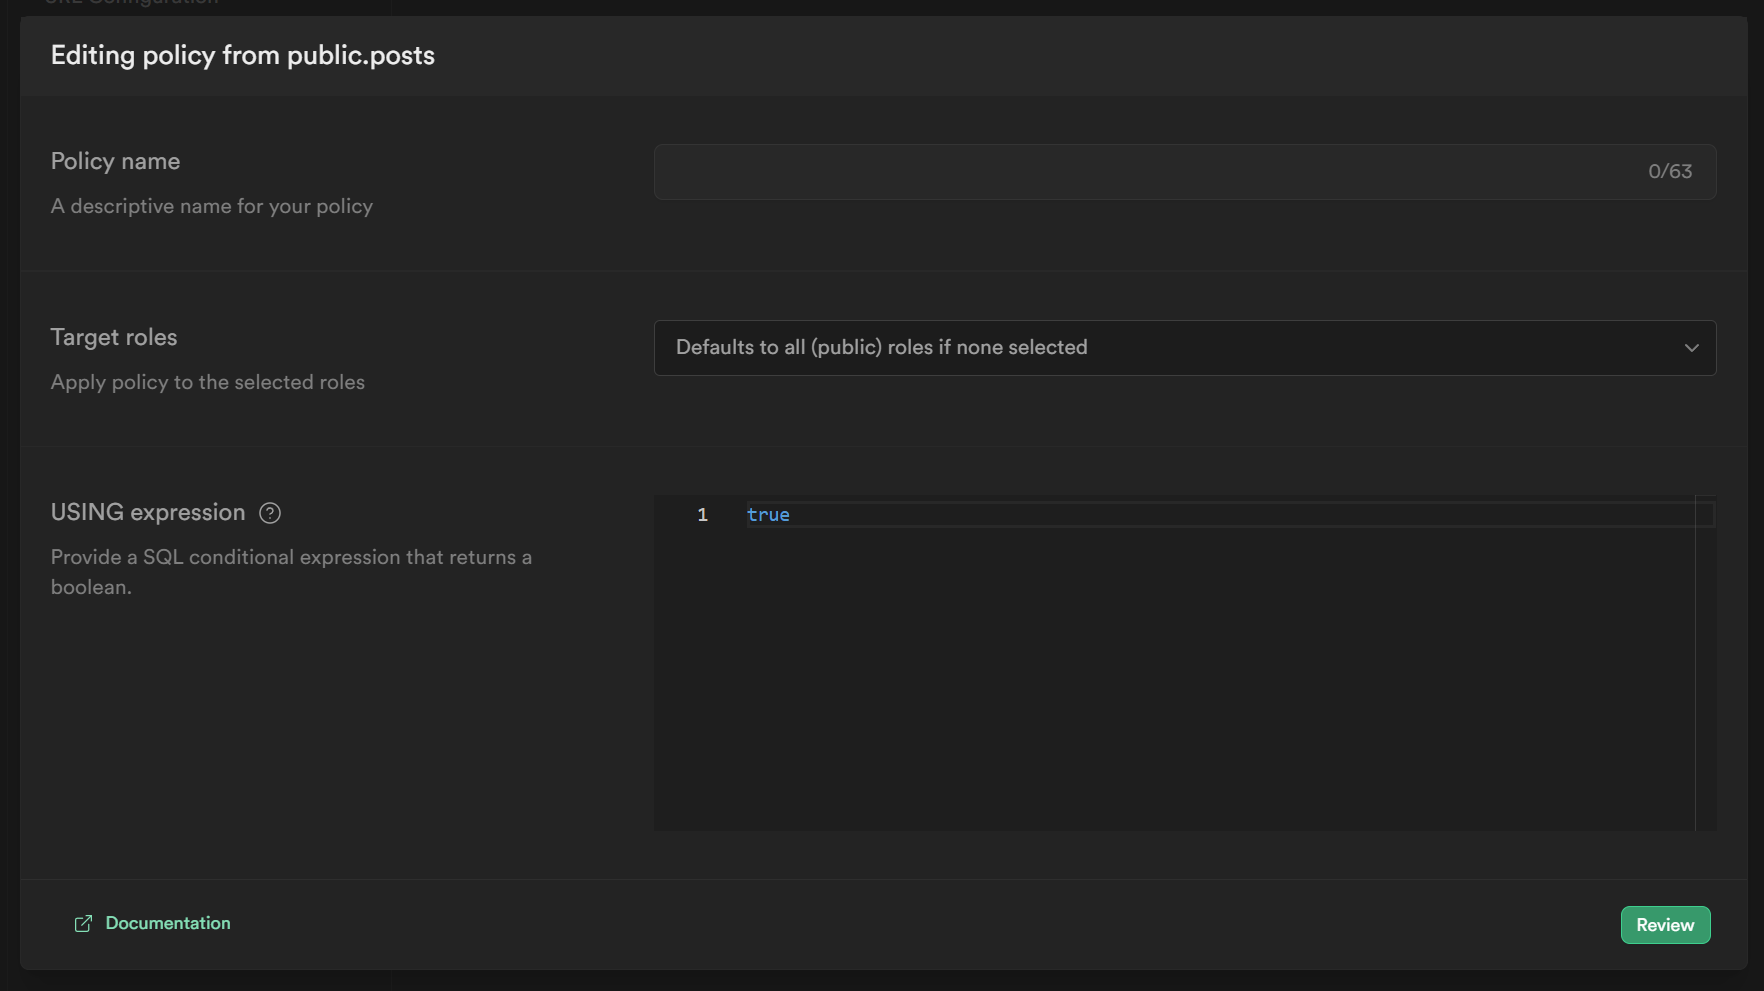
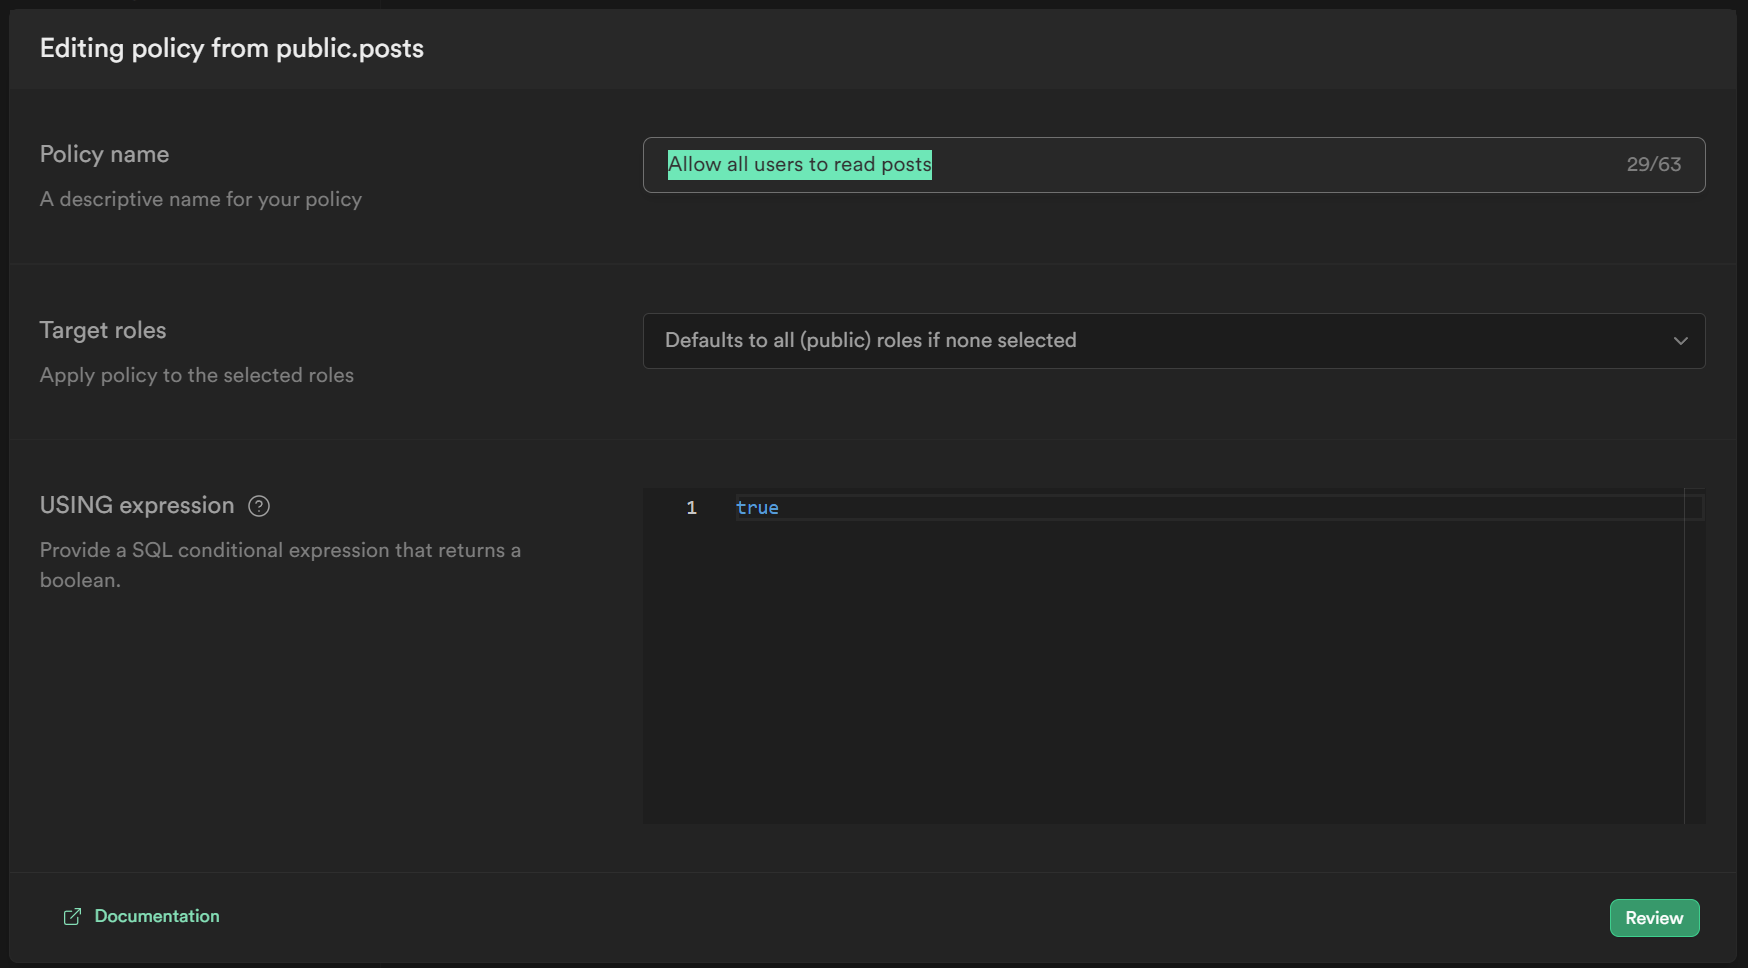
Update README.md and add database policies screenshot

diff --git a/README.md b/README.md
@@ -84,7 +84,7 @@ Based on the [Astro Supabase Starter](https://supabase.com/docs/guides/auth/serv
 Note: The `createServerClient` function takes a third argument, which is an object with a `cookies` property. This is a custom implementation of the `Cookies` interface from the [Cookies API](https://developer.mozilla.org/en-US/docs/Web/API/Cookies_API). This is required because Astro does not have a built-in way to access cookies on the server. The `createServerClient` function will use this to set and get cookies on the server. 
 
 
-6. If the array of responses is empty, you can try adding new policy:
+6. Check the database policies. Go to your Supabase project dashboard.
 
 ![Database policies](screenshot.png)
 ![Policy](screenshot-1.png)
